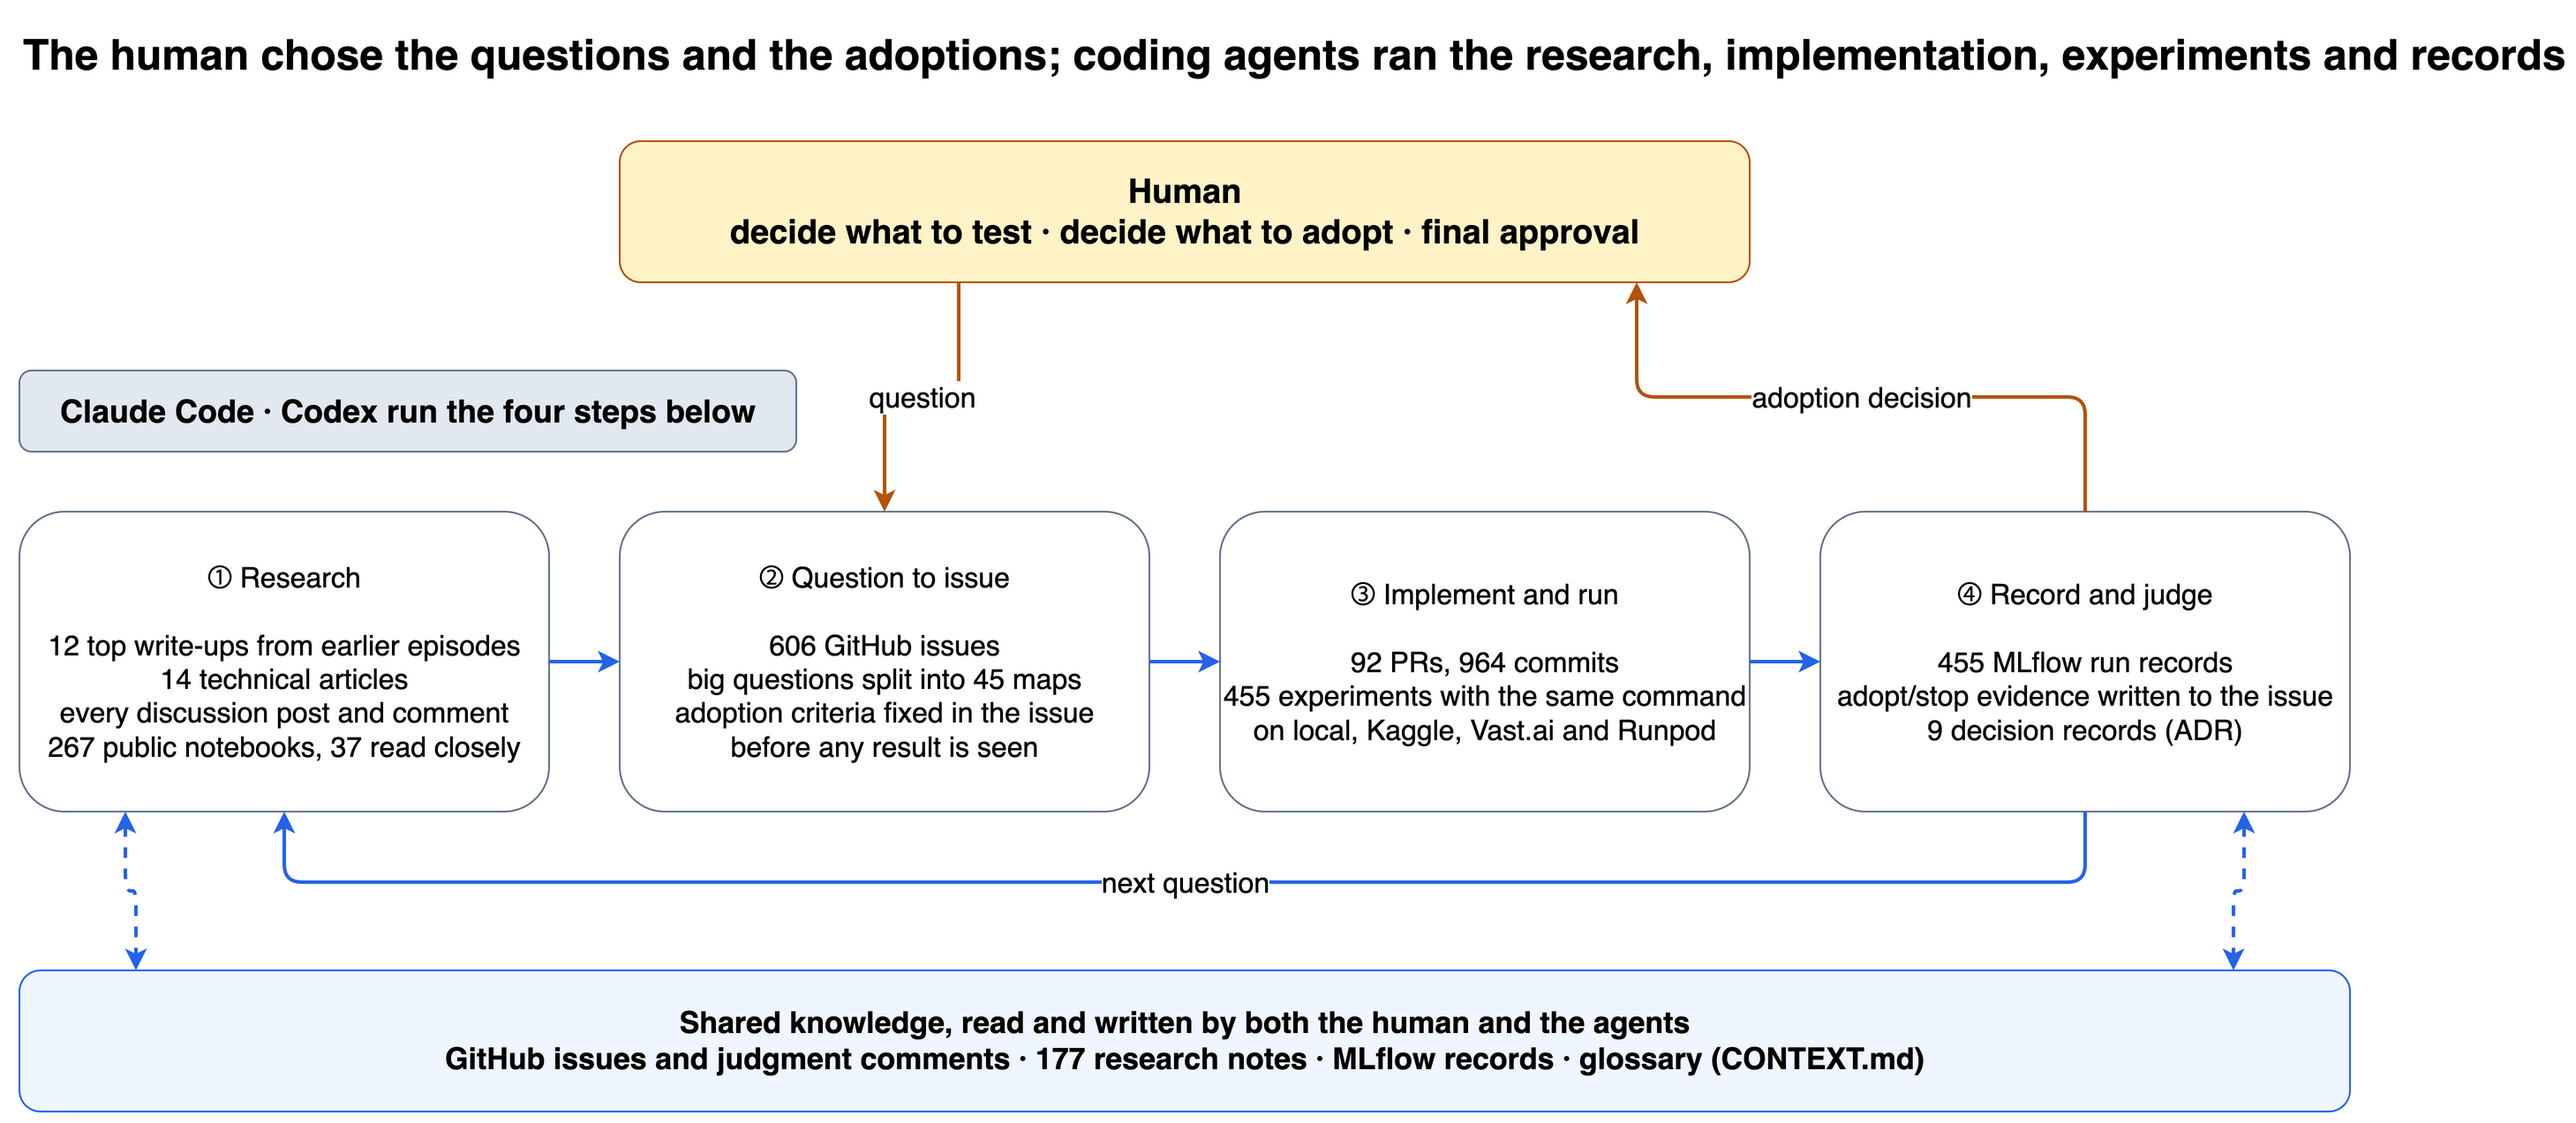
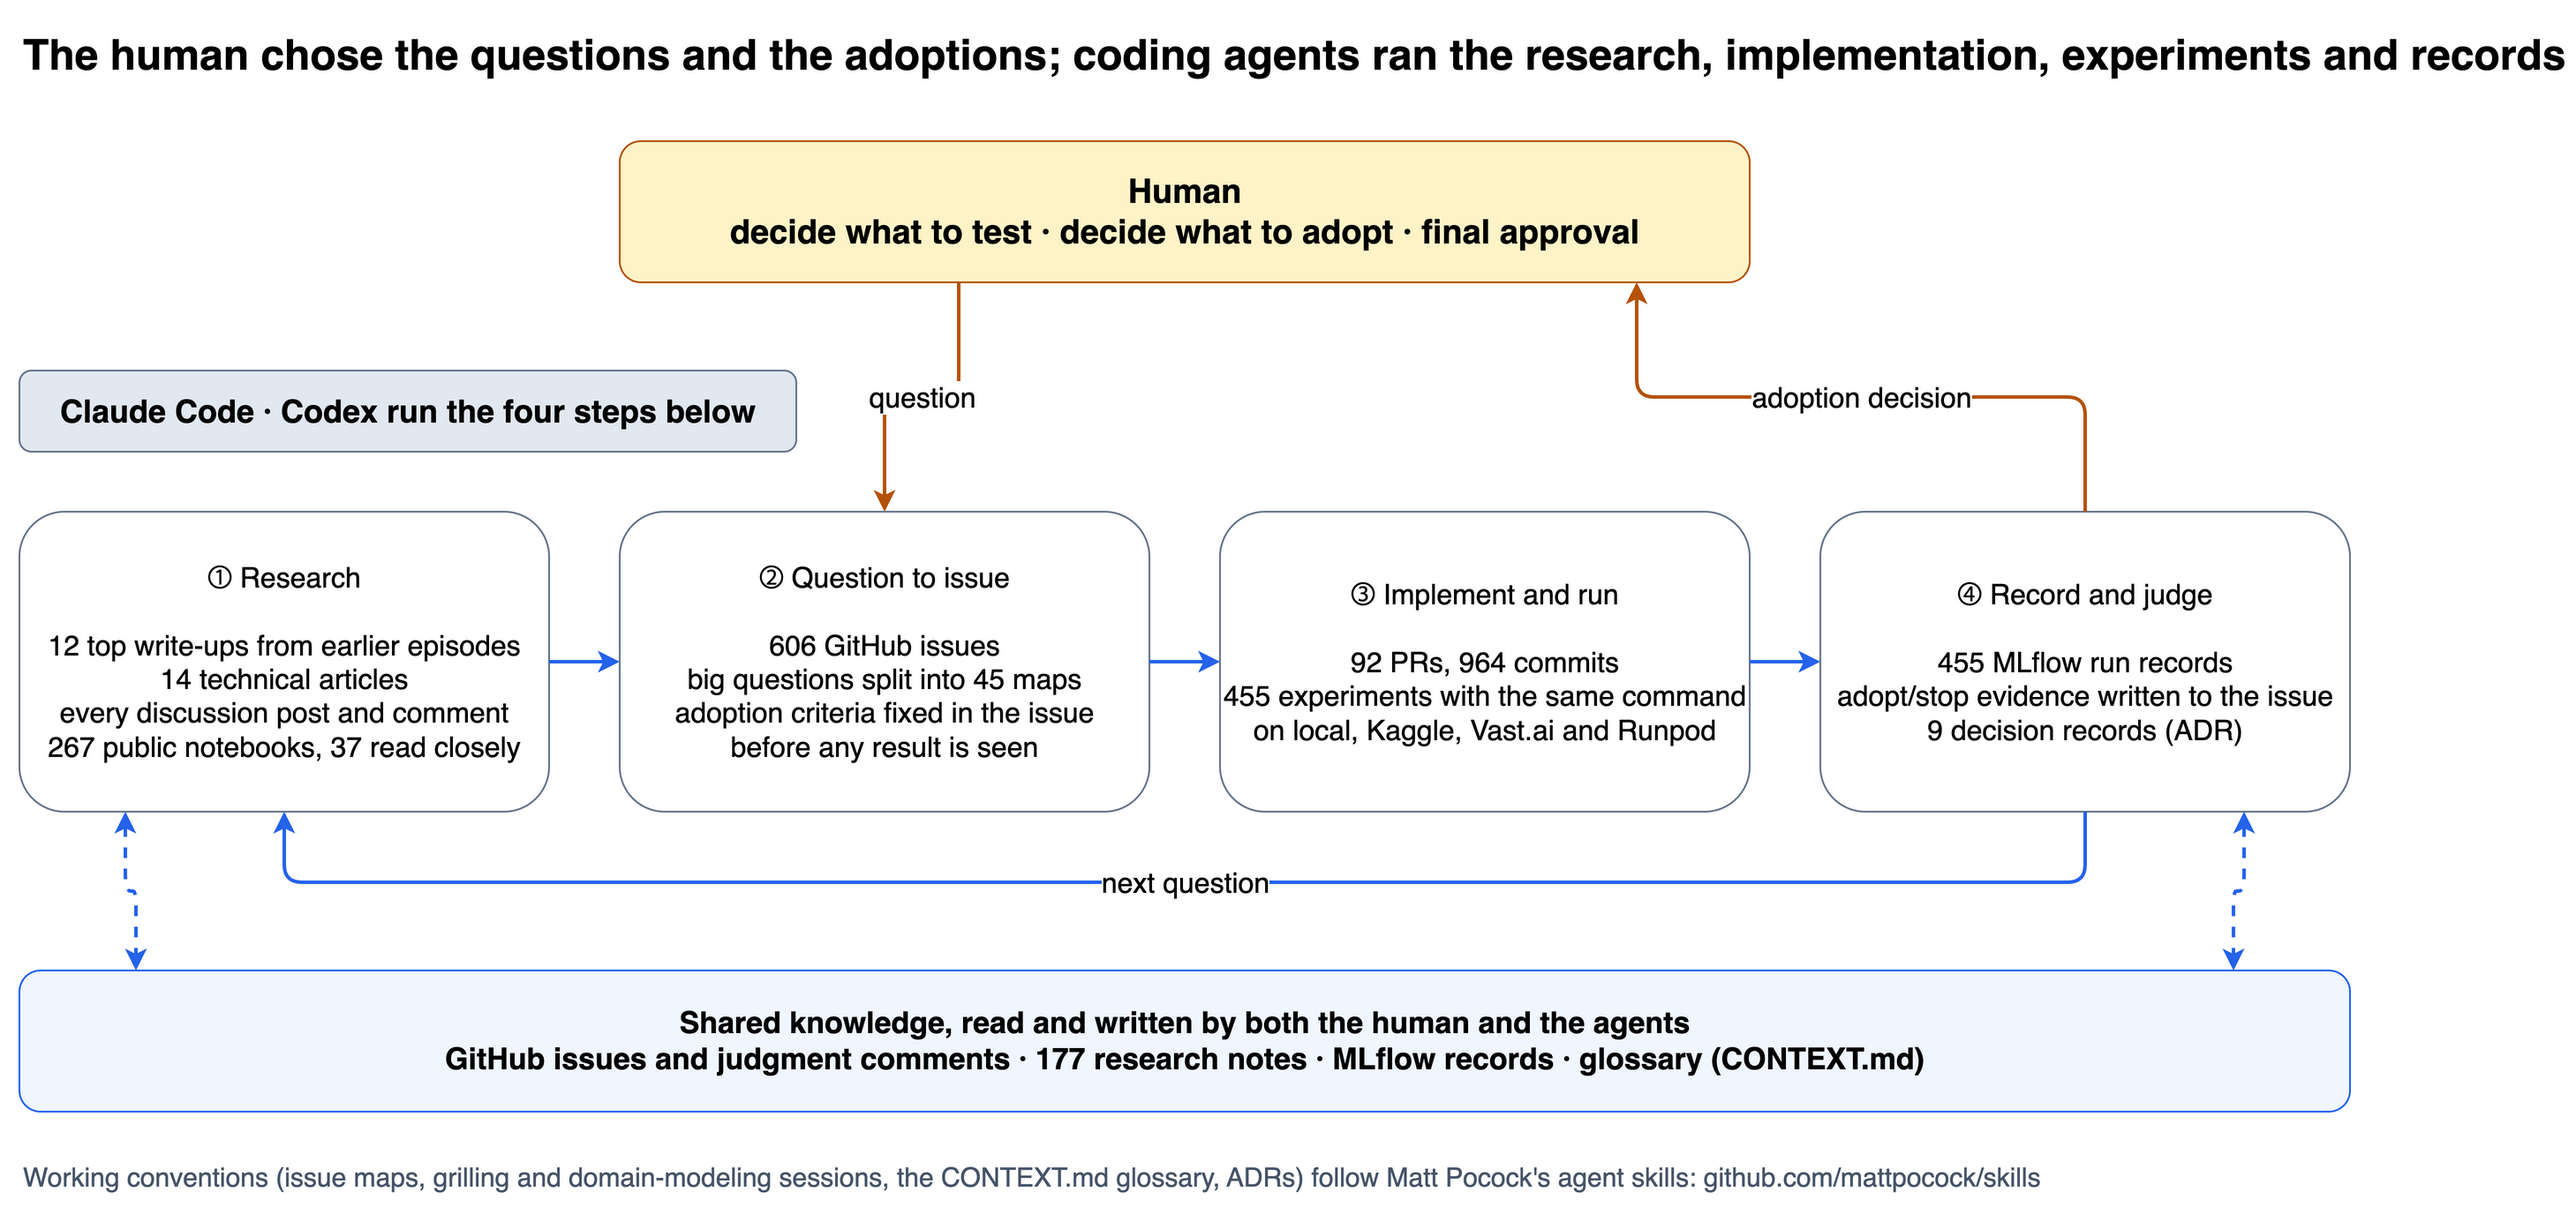
docs: 영문 write-up과 에이전트 순환 그림에 Matt Pocock 스킬 출처를 밝힌다 (#609)

diff --git a/docs/writeup/s6e8-kaggle-solution-writeup.md b/docs/writeup/s6e8-kaggle-solution-writeup.md
@@ -330,6 +330,8 @@ Wide stacking judgments were memory bound: 400-column jobs took 10-16 GB each, f
 Most of the repetitive work went to coding agents (Claude Code and Codex): reading prior write-ups and notebooks, turning a question into a GitHub issue with the adoption criteria written down before anything ran, implementing, running, recording.
 I decided what to test and what to adopt.
 That loop handled 606 issues, 92 pull requests and 964 commits, and it is the reason the shared-prediction ledger could be checked at the level of individual notebooks.
+The working conventions behind that loop are not mine.
+One map of issues per big question, grilling and domain-modeling sessions before anything is built, a `CONTEXT.md` glossary and ADRs for decisions all come from Matt Pocock's agent skills (github.com/mattpocock/skills), installed as-is and pointed at this repository.
 
 ![Loop between the human, the coding agents, and the shared GitHub issues, research notes and MLflow records](assets/writeup-agent-loop.png)
 
@@ -349,6 +351,7 @@ That loop handled 606 issues, 92 pull requests and 964 commits, and it is the re
 - @najiama, @omidbaghchehsaraei, @rv1922, @zhukovoleksiy, @yaminh, @sidhaarthshree, @danushkumarv, @lopure, @yadoy666, @dynamo14324, @shamanthakreddymallu, @redamountassir, @lucymlai32, @kodaifukuda0311, @harwindersingh766, @yekenot and @kava1 for notebooks whose outputs became members.
 - @cdeotte for the starter notebooks and for the discussion threads that set the baseline everyone measured against.
 - @ryota517 for framing the screen-time budget constraint in the discussion, and @kitopl for the `max_bin` finding that one of my LightGBM configs is named after.
+- Matt Pocock for the agent skills (github.com/mattpocock/skills) that gave the coding agents their working conventions: issue maps, grilling, domain modeling, `CONTEXT.md` and ADRs.
 
 If I have missed anyone whose predictions are in the table above, tell me in the comments and I will add you.
 
